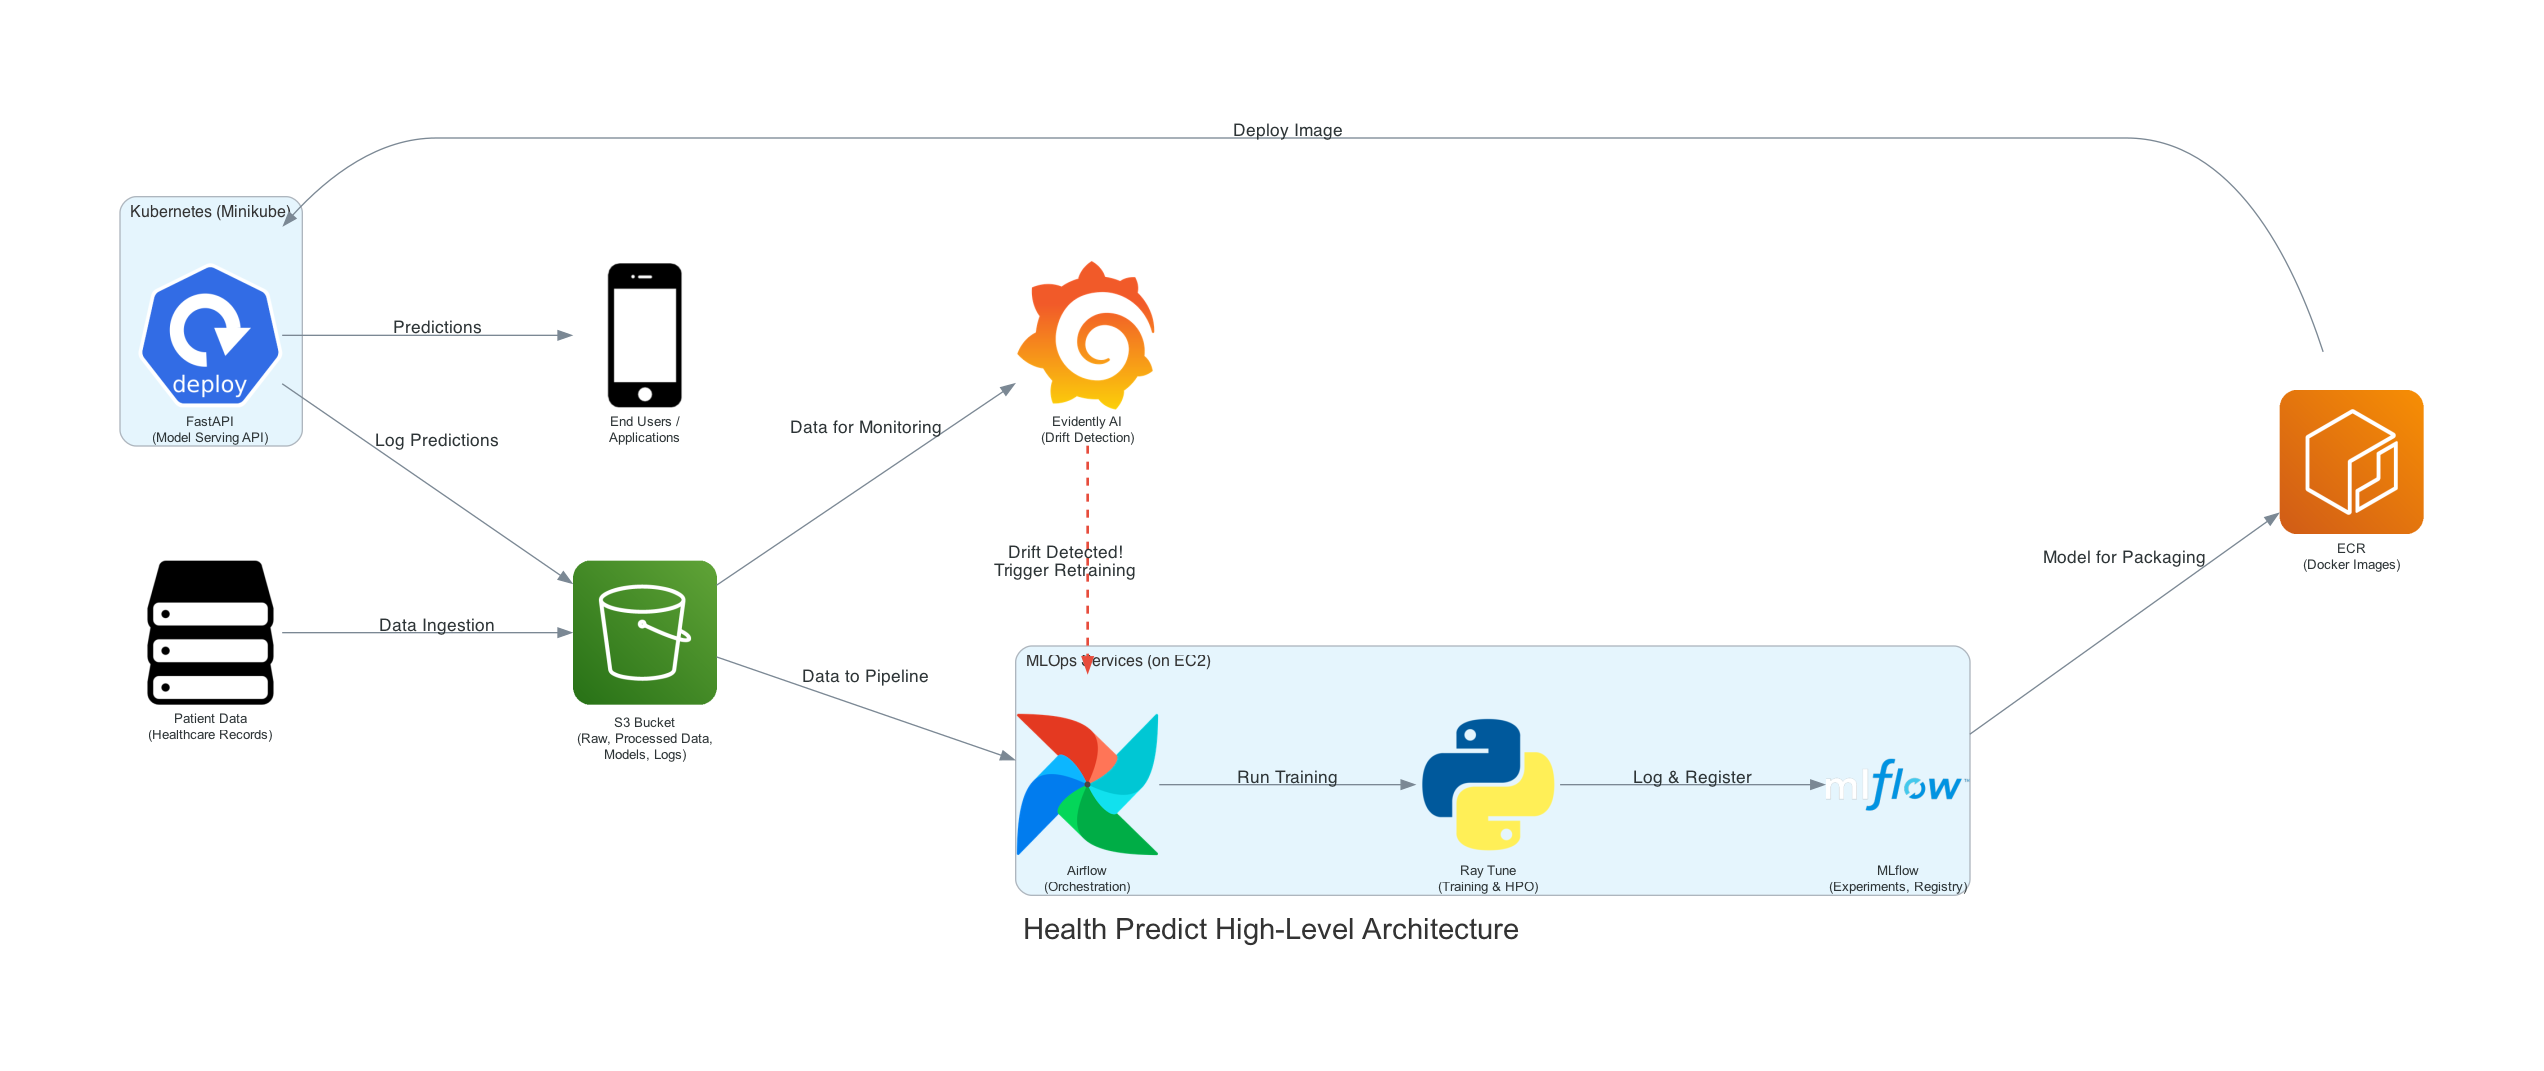
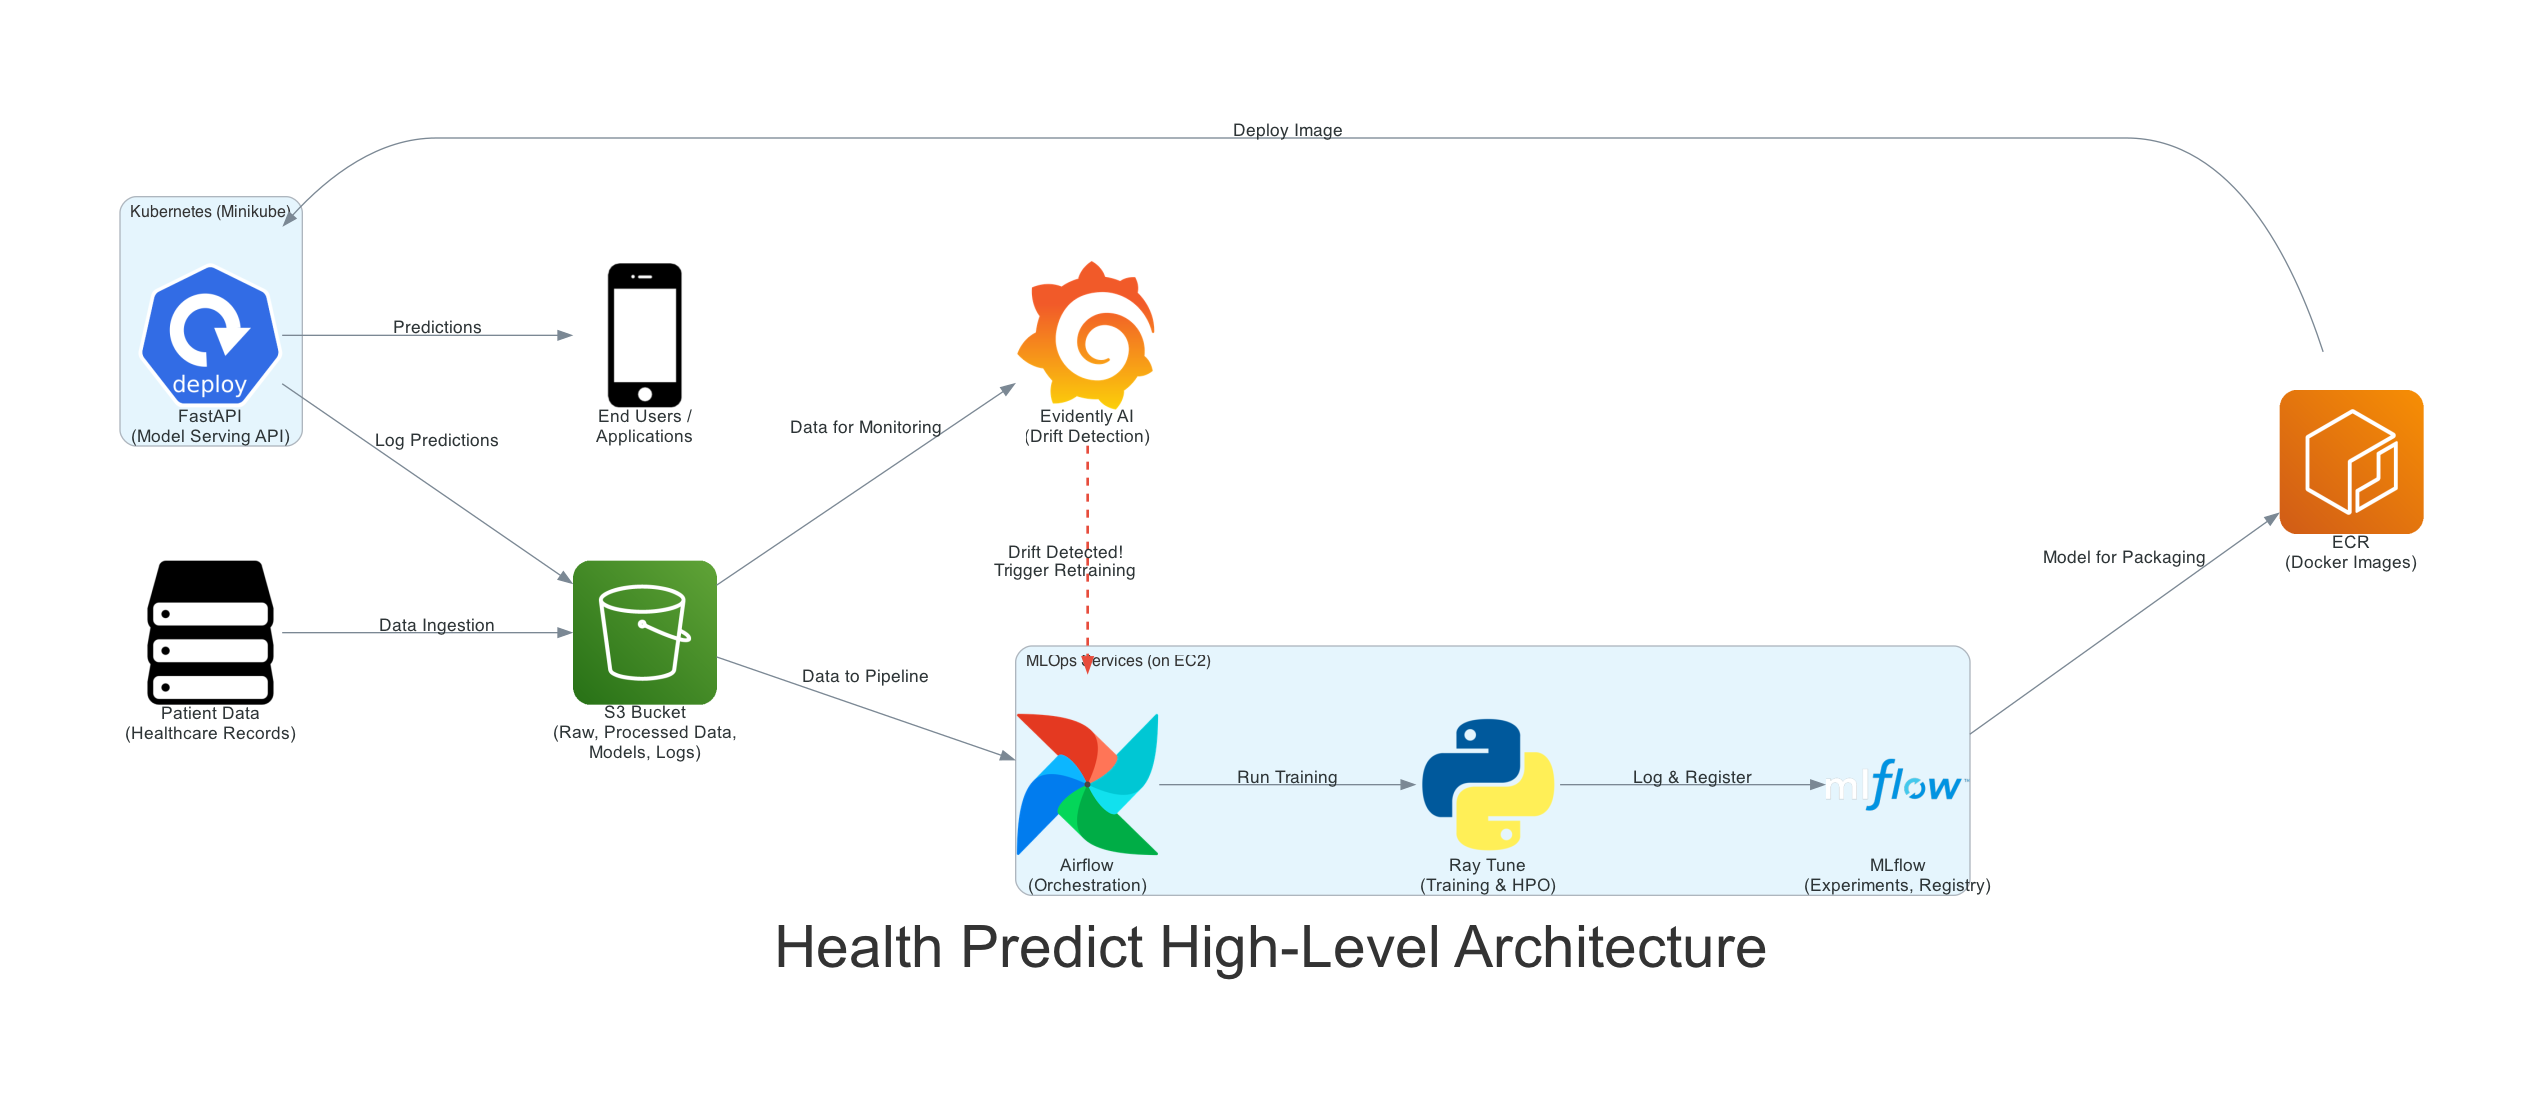
Adust diagrams

diff --git a/README.md b/README.md
@@ -23,13 +23,18 @@ Health Predict addresses this challenge by leveraging machine learning to predic
 
 The Health Predict system implements a complete MLOps lifecycle on AWS infrastructure, employing cost-effective design choices to demonstrate enterprise-level capabilities while maintaining budget efficiency:
 
-![Health Predict Solution Architecture](images/health_predict_high_level_architecture_v2.png)
-> The Health Predict MLOps architecture enables end-to-end prediction of patient readmission risk:
-> *   **Data Pipeline**: Patient data is ingested into S3 and processed by a pipeline orchestrated by Airflow on EC2.
-> *   **Model Development**: Ray Tune handles distributed model training and HPO, with experiments and models managed by MLflow.
-> *   **Deployment**: Production models are containerized, stored in ECR, and deployed to a Kubernetes (Minikube) cluster.
-> *   **Model Serving**: A FastAPI serves predictions to end-users.
-> *   **Monitoring & Retraining**: Evidently AI monitors for data drift from S3 logs, triggering automated retraining via Airflow to ensure model accuracy.
+## Solution Architecture Overview
+
+![High-Level Architecture](images/health_predict_high_level_architecture_v2.png)
+*Figure 1: Health Predict High-Level MLOps Architecture.*
+
+### Detailed Views
+
+![Training Pipeline](images/training_pipeline.png)
+*Figure 2: Training Pipeline.*
+
+![Deployment Pipeline](images/deployment_pipeline.png)
+*Figure 3: Deployment Pipeline.*
 
 ### Key Components:
 
@@ -76,7 +81,7 @@ The training pipeline leverages distributed computing for efficient model develo
 - **Model Selection**: Automated selection of best model based on F1 score
 - **Model Registry**: Automatic promotion to production in MLflow registry
 
-![Training Pipeline](images/training_pipeline.png)
+![Training Pipeline](training_pipeline.png)
 
 ### Deployment Pipeline
 The deployment pipeline automates the transition from model training to production:
@@ -88,7 +93,7 @@ The deployment pipeline automates the transition from model training to producti
 - **Testing**: Automated API endpoint testing post-deployment
 - **Monitoring**: Setup of monitoring for the newly deployed model
 
-![Deployment Pipeline](images/deployment_pipeline.png)
+![Deployment Pipeline](deployment_pipeline.png)
 
 ### Model Serving API
 
